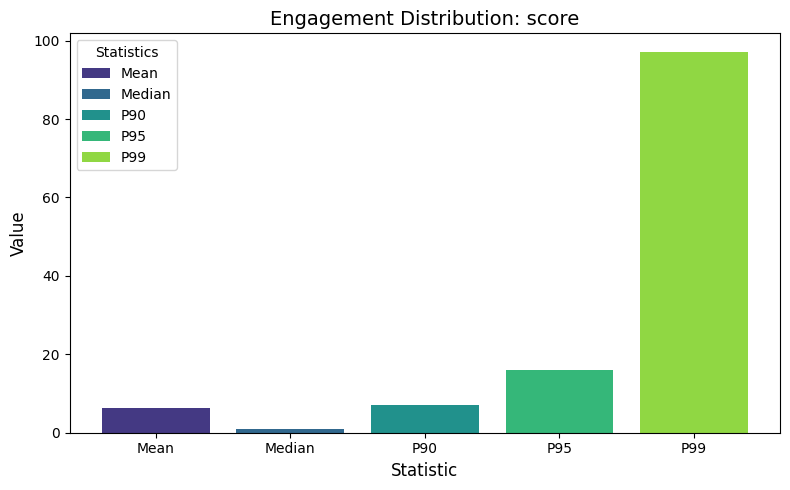
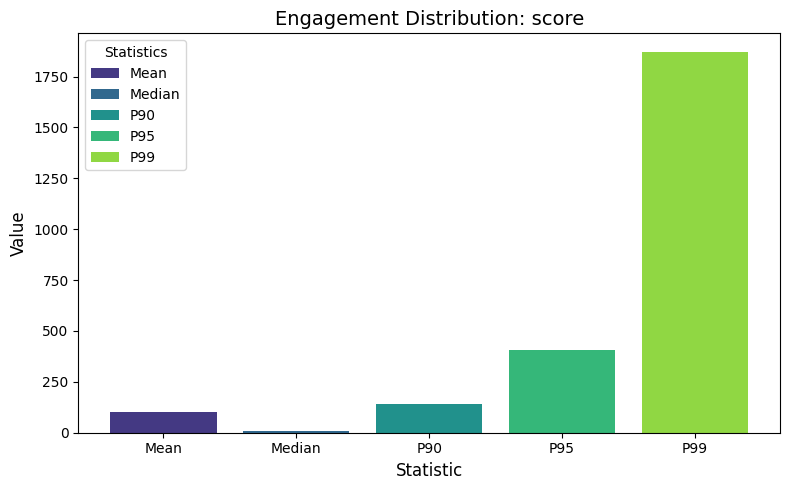
update main.py to show full relative path of datasets

diff --git a/main.py b/main.py
@@ -559,7 +559,8 @@ def _load_and_enrich_datasets(config: PipelineConfig) -> DatasetStore:
     for filepath in dataset_files:
         try:
             df = _load_dataset(filepath)
-            name = os.path.basename(filepath)
+            # Use the relative path as the name (e.g. data/folder1/folder2/filename.csv)
+            name = filepath.replace("\\", "/")
 
             # Detect columns
             date_col = _detect_date_column(df)

diff --git a/output/eda_report.md b/output/eda_report.md
@@ -1,6 +1,6 @@
 # EDA Financial Discussions - Analysis Report
 
-*Generated: 2026-06-03 14:46:55*
+*Generated: 2026-06-03 16:13:10*
 
 ## Executive Summary
 
@@ -10,8 +10,8 @@ This report summarizes the exploratory data analysis conducted to identify suita
 
 - **Datasets discovered:** 0 (0 complete with engagement + sentiment fields)
 - **API platforms assessed:** 2
-- **Quality reports generated:** 2 (2 suitable)
-- **Surge definitions evaluated:** 9 (6 viable with ≥2% positive class)
+- **Quality reports generated:** 3 (3 suitable)
+- **Surge definitions evaluated:** 18 (11 viable with ≥2% positive class)
 
 ## Dataset Discovery Results
 
@@ -79,40 +79,7 @@ The following fields require paid access:
 
 ## EDA Statistics
 
-### goyaladi_twitter-dataset.csv
-
-#### Dataset Structure
-
-- **Records:** 10,000
-- **Tickers:** 0
-- **Columns:** 6
-- **Date range:** 2023-01-01 to 2023-05-15
-- **Recommendation:** suitable
-
-#### Missing Values
-
-| Column | Missing % |
-|--------|-----------|
-
-#### Engagement Statistics
-
-| Metric | Mean | Median | P90 | P95 | P99 |
-|--------|------|--------|-----|-----|-----|
-| Retweets | 49.7 | 49.0 | 90.0 | 95.0 | 99.0 |
-| Likes | 49.9 | 50.0 | 90.0 | 95.0 | 100.0 |
-
-#### Sentiment Statistics
-
-- **mean:** 0.443
-- **median:** 0.599
-- **std:** 0.452
-- **Bullish/Bearish ratio:** 4.72
-
-#### Identified Risks
-
-- No ticker column 'ticker' found and ticker extraction from text yielded no results: per-ticker engagement normalization cannot be performed.
-
-### StockMarket_subreddit.csv
+### ./data/StockMarket_subreddit.csv
 
 #### Dataset Structure
 
@@ -146,6 +113,76 @@ The following fields require paid access:
 
 - Duplicate rows detected: 1103 duplicates (1.5%), which may inflate engagement statistics.
 
+### ./data/goyaladi_twitter-dataset/goyaladi_twitter-dataset.csv
+
+#### Dataset Structure
+
+- **Records:** 10,000
+- **Tickers:** 0
+- **Columns:** 6
+- **Date range:** 2023-01-01 to 2023-05-15
+- **Recommendation:** suitable
+
+#### Missing Values
+
+| Column | Missing % |
+|--------|-----------|
+
+#### Engagement Statistics
+
+| Metric | Mean | Median | P90 | P95 | P99 |
+|--------|------|--------|-----|-----|-----|
+| Retweets | 49.7 | 49.0 | 90.0 | 95.0 | 99.0 |
+| Likes | 49.9 | 50.0 | 90.0 | 95.0 | 100.0 |
+
+#### Sentiment Statistics
+
+- **mean:** 0.443
+- **median:** 0.599
+- **std:** 0.452
+- **Bullish/Bearish ratio:** 4.72
+
+#### Identified Risks
+
+- No ticker column 'ticker' found and ticker extraction from text yielded no results: per-ticker engagement normalization cannot be performed.
+
+### ./data/leukipp_reddit-finance-data/gme/submissions_reddit.csv
+
+#### Dataset Structure
+
+- **Records:** 273,327
+- **Tickers:** 340
+- **Columns:** 25
+- **Date range:** 2021-01-01 to 2021-12-31
+- **Recommendation:** suitable
+
+#### Missing Values
+
+**High-risk columns (>30% missing):** selftext
+
+| Column | Missing % |
+|--------|-----------|
+| selftext | 48.7% ⚠ |
+| link_flair_text | 7.0% |
+
+#### Engagement Statistics
+
+| Metric | Mean | Median | P90 | P95 | P99 |
+|--------|------|--------|-----|-----|-----|
+| score | 101.3 | 10.0 | 142.0 | 407.0 | 1868.7 |
+| num_comments | 12.5 | 3.0 | 21.0 | 37.0 | 146.0 |
+
+#### Sentiment Statistics
+
+- **mean:** 0.083
+- **median:** 0.000
+- **std:** 0.361
+- **Bullish/Bearish ratio:** 1.82
+
+#### Identified Risks
+
+- High missing data: columns ['selftext'] have >30% missing values, which may bias analysis or require imputation.
+
 ## Surge Analysis Results
 
 Surge definitions were evaluated across multiple threshold combinations.
@@ -161,12 +198,37 @@ Surge definitions were evaluated across multiple threshold combinations.
 | 0.99 | 0.5 | 24 | 1,505 | 72,620 | 2.07% | 47.3:1 | ✓ |
 | 0.99 | 1.0 | 24 | 794 | 72,620 | 1.09% | 90.5:1 | ✗ |
 | 0.99 | 1.5 | 24 | 418 | 72,620 | 0.58% | 172.7:1 | ✗ |
+| 0.90 | 0.5 | 24 | 20,350 | 273,327 | 7.45% | 12.4:1 | ✓ |
+| 0.90 | 1.0 | 24 | 14,104 | 273,327 | 5.16% | 18.4:1 | ✓ |
+| 0.90 | 1.5 | 24 | 8,176 | 273,327 | 2.99% | 32.4:1 | ✓ |
+| 0.95 | 0.5 | 24 | 10,219 | 273,327 | 3.74% | 25.7:1 | ✓ |
+| 0.95 | 1.0 | 24 | 7,146 | 273,327 | 2.61% | 37.2:1 | ✓ |
+| 0.95 | 1.5 | 24 | 4,187 | 273,327 | 1.53% | 64.3:1 | ✗ |
+| 0.99 | 0.5 | 24 | 2,126 | 273,327 | 0.78% | 127.6:1 | ✗ |
+| 0.99 | 1.0 | 24 | 1,558 | 273,327 | 0.57% | 174.4:1 | ✗ |
+| 0.99 | 1.5 | 24 | 968 | 273,327 | 0.35% | 281.4:1 | ✗ |
 
-**6 viable surge definition(s)** found (positive class ≥ 2%).
+**11 viable surge definition(s)** found (positive class ≥ 2%).
 
 Best viable definition: engagement ≥ 90% percentile + sentiment shift ≥ 0.5 std devs → 8.50% surge rate.
 
 ## Visualizations
+
+### Engagement Distribution Score
+
+![Engagement Distribution Score](charts/engagement_distribution_score.png)
+
+### Engagement Distribution Num Comments
+
+![Engagement Distribution Num Comments](charts/engagement_distribution_num_comments.png)
+
+### Sentiment Class Distribution
+
+![Sentiment Class Distribution](charts/sentiment_class_distribution.png)
+
+### Sentiment Polarity Stats
+
+![Sentiment Polarity Stats](charts/sentiment_polarity_stats.png)
 
 ### Engagement Distribution Retweets
 
@@ -210,26 +272,27 @@ Best viable definition: engagement ≥ 90% percentile + sentiment shift ≥ 0.5 
 
 | Stage | Duration (s) |
 |-------|-------------|
-| Dataset Discovery | 18.35 |
+| Dataset Discovery | 38.71 |
 | API Feasibility | 0.00 |
-| Dataset Preparation | 9.43 |
-| Dataset Quality | 40.33 |
-| Surge Analysis | 20.96 |
-| Visualization | 6.26 |
-| **Total** | **95.33** |
+| Dataset Preparation | 40.22 |
+| Dataset Quality | 142.58 |
+| Surge Analysis | 42.34 |
+| Visualization | 5.68 |
+| **Total** | **269.54** |
 
 ### Per-Dataset Processing Time
 
 | Dataset | Duration (s) |
 |---------|-------------|
-| goyaladi_twitter-dataset.csv | 14.57 |
-| StockMarket_subreddit.csv | 25.75 |
+| ./data/StockMarket_subreddit.csv | 24.12 |
+| ./data/goyaladi_twitter-dataset/goyaladi_twitter-dataset.csv | 8.43 |
+| ./data/leukipp_reddit-finance-data/gme/submissions_reddit.csv | 110.03 |
 
 ## Final Recommendation
 
 ### Recommended Path: API Collection (reddit API)
 
-Recommend API collection via 'reddit API' as the best data path. Key strengths: reasonable cost, supports surge label construction, historical data access available. API collection provides fresh, customizable data tailored to the prediction task. Surge analysis confirms viable definitions exist (6/9 configurations produce ≥2% positive class).
+Recommend API collection via 'reddit API' as the best data path. Key strengths: reasonable cost, supports surge label construction, historical data access available. API collection provides fresh, customizable data tailored to the prediction task. Surge analysis confirms viable definitions exist (11/18 configurations produce ≥2% positive class).
 
 ### Ranked Options
 
@@ -249,7 +312,23 @@ Recommend API collection via 'reddit API' as the best data path. Key strengths: 
    | Historical Access | 1.00 | 15% | Historical data access available |
    | Field Availability | 1.00 | 15% | Rich field set (10+ fields) |
 
-2. **StockMarket_subreddit.csv** (overall score: 0.930)
+2. **./data/leukipp_reddit-finance-data/gme/submissions_reddit.csv** (overall score: 0.960)
+   - High data completeness with few missing values
+   - Large dataset suitable for model training
+   - Good temporal coverage with minimal gaps
+   - 1 risk(s) identified: High missing data: columns ['selftext'] have >30% missing values, which may bias analysis or require imputation.
+
+   **Scoring Breakdown:**
+
+   | Criterion | Score | Weight | Comment |
+   |-----------|-------|--------|---------|
+   | Completeness | 0.96 | 25% | Excellent - very few missing values |
+   | Volume | 1.00 | 20% | Excellent - 100k+ records |
+   | Temporal Coverage | 1.00 | 20% | No temporal gaps detected |
+   | Ticker Diversity | 1.00 | 15% | Excellent - 50+ tickers covered |
+   | Risk | 0.85 | 20% | Minor risks (1-2 issues) |
+
+3. **./data/StockMarket_subreddit.csv** (overall score: 0.930)
    - High data completeness with few missing values
    - Large dataset suitable for model training
    - Good temporal coverage with minimal gaps
@@ -265,7 +344,7 @@ Recommend API collection via 'reddit API' as the best data path. Key strengths: 
    | Ticker Diversity | 1.00 | 15% | Excellent - 50+ tickers covered |
    | Risk | 0.85 | 20% | Minor risks (1-2 issues) |
 
-3. **goyaladi_twitter-dataset.csv** (overall score: 0.810)
+4. **./data/goyaladi_twitter-dataset/goyaladi_twitter-dataset.csv** (overall score: 0.810)
    - High data completeness with few missing values
    - Large dataset suitable for model training
    - Good temporal coverage with minimal gaps
@@ -281,7 +360,7 @@ Recommend API collection via 'reddit API' as the best data path. Key strengths: 
    | Ticker Diversity | 0.20 | 15% | Very limited - fewer than 3 tickers |
    | Risk | 0.85 | 20% | Minor risks (1-2 issues) |
 
-4. **twitter API** (overall score: 0.770)
+5. **twitter API** (overall score: 0.770)
    - Fast collection time
    - Supports surge label construction
    - No historical data access - requires prospective collection
